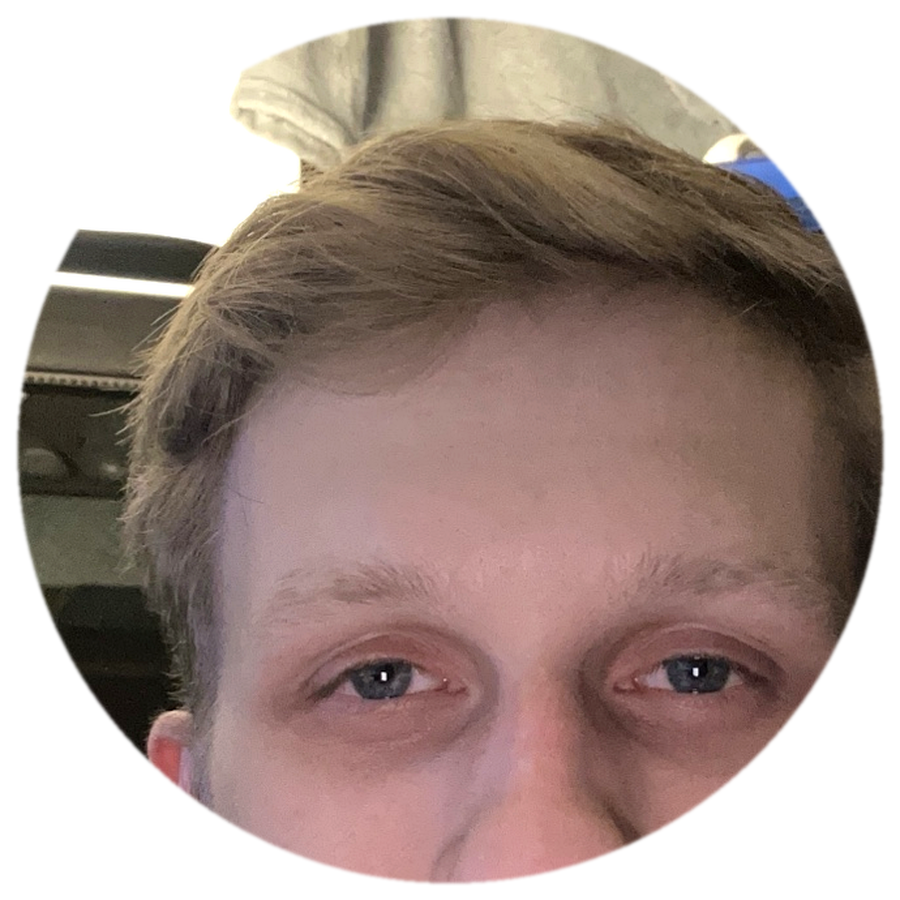
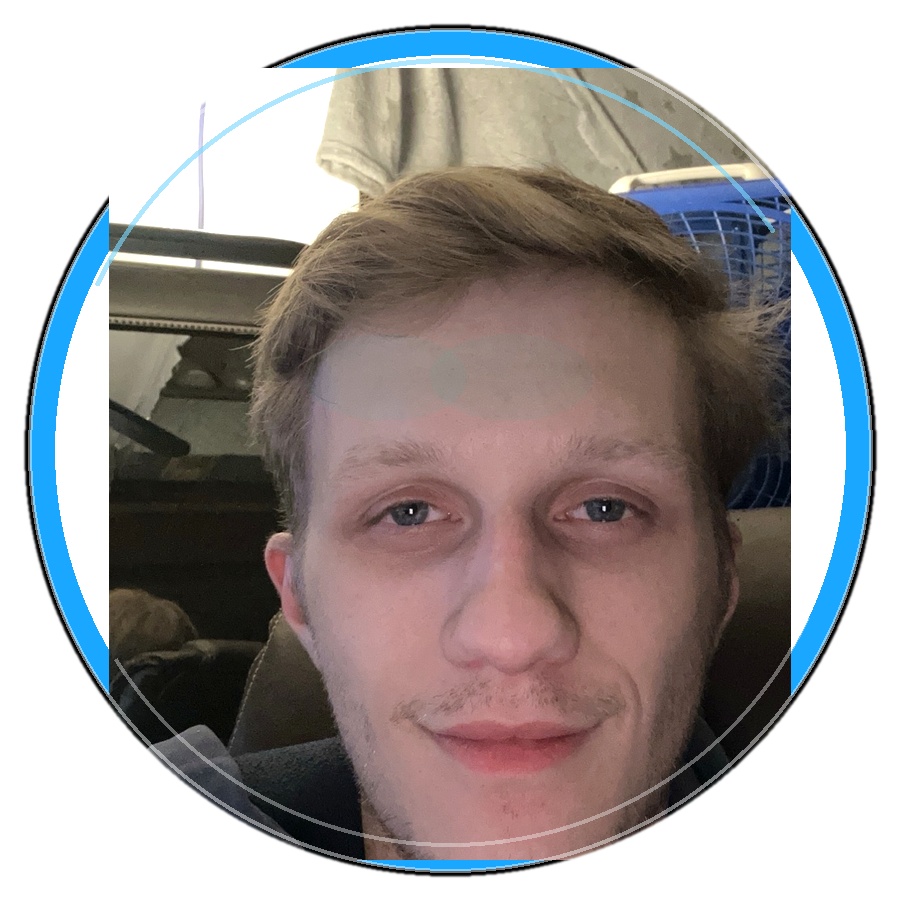
Add files via upload

diff --git a/styles.css b/styles.css
@@ -815,3 +815,83 @@ main{position:relative;z-index:1;width:min(1180px,calc(100% - 32px));margin:0 au
   .brand-mark.brand-photo img,
   .brand-mark.brand-photo::before { border-radius: 17px; }
 }
+
+
+/* =========================================================
+   v1.5.1 PROFILE ORB FIX
+   Flat build: profile-orb.png sits beside index.html.
+   Centers the portrait, avoids face cropping, and keeps the
+   background as transparent glass instead of a hard image block.
+========================================================= */
+.brand-mark.brand-photo {
+  border-radius: 999px;
+  padding: 4px;
+  background:
+    radial-gradient(circle at 30% 20%, rgba(255,255,255,.42), transparent 30%),
+    linear-gradient(145deg, rgba(255,255,255,.22), rgba(255,255,255,.07));
+  border: 1px solid rgba(255,255,255,.28);
+  box-shadow:
+    0 0 30px color-mix(in srgb, var(--glow) 42%, transparent),
+    inset 0 1px 0 rgba(255,255,255,.28);
+}
+.brand-mark.brand-photo::before {
+  inset: 4px;
+  border-radius: 999px;
+  background:
+    radial-gradient(circle at 35% 25%, rgba(255,255,255,.28), transparent 28%),
+    color-mix(in srgb, var(--panel-strong) 52%, transparent);
+  backdrop-filter: blur(16px) saturate(1.28);
+  -webkit-backdrop-filter: blur(16px) saturate(1.28);
+}
+.brand-mark.brand-photo img {
+  width: 100%;
+  height: 100%;
+  object-fit: contain;
+  object-position: center center;
+  border-radius: 999px;
+  transform: scale(.98);
+  filter: brightness(1.07) contrast(1.04) saturate(1.02);
+}
+.profile-core {
+  overflow: visible;
+  padding: 0;
+  background:
+    radial-gradient(circle at 30% 20%, rgba(255,255,255,.30), transparent 26%),
+    linear-gradient(145deg, rgba(255,255,255,.16), rgba(255,255,255,.055));
+  border: 1px solid rgba(255,255,255,.24);
+  backdrop-filter: blur(20px) saturate(1.35);
+  -webkit-backdrop-filter: blur(20px) saturate(1.35);
+}
+.profile-core::before {
+  inset: -8px;
+  z-index: 0;
+  border-radius: 50%;
+  background:
+    radial-gradient(circle at 38% 24%, rgba(255,255,255,.26), transparent 22%),
+    radial-gradient(circle at 55% 62%, color-mix(in srgb, var(--glow) 32%, transparent), transparent 54%),
+    color-mix(in srgb, var(--panel-strong) 38%, transparent);
+  border: 1px solid rgba(255,255,255,.25);
+  backdrop-filter: blur(22px) saturate(1.35);
+  -webkit-backdrop-filter: blur(22px) saturate(1.35);
+  box-shadow:
+    inset 0 0 34px rgba(255,255,255,.10),
+    0 0 62px color-mix(in srgb, var(--glow) 28%, transparent);
+}
+.profile-core img {
+  position: relative;
+  z-index: 2;
+  width: 132%;
+  height: 132%;
+  margin: -16%;
+  object-fit: contain;
+  object-position: center center;
+  border-radius: 50%;
+  transform: none;
+  filter: brightness(1.08) contrast(1.04) saturate(1.02);
+}
+@media (max-width: 720px) {
+  .brand-mark.brand-photo,
+  .brand-mark.brand-photo img,
+  .brand-mark.brand-photo::before { border-radius: 999px; }
+  .profile-core img { width: 136%; height: 136%; margin: -18%; }
+}
